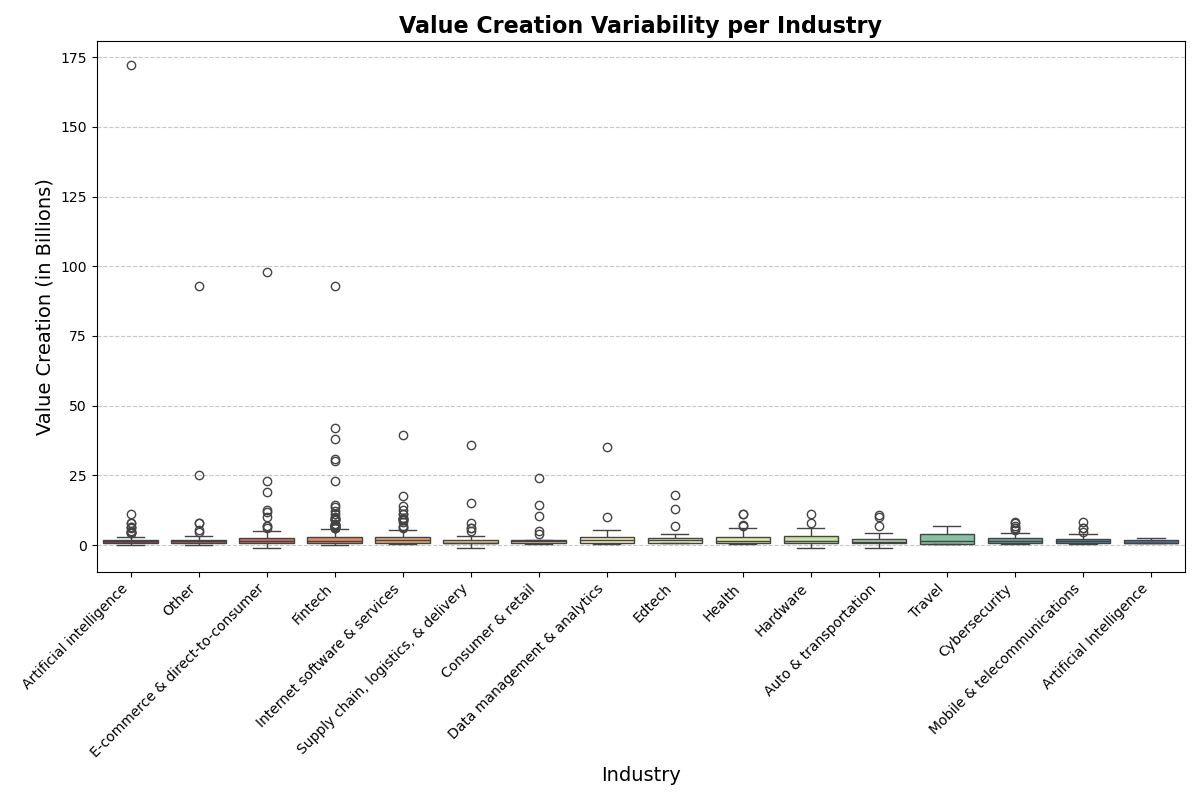
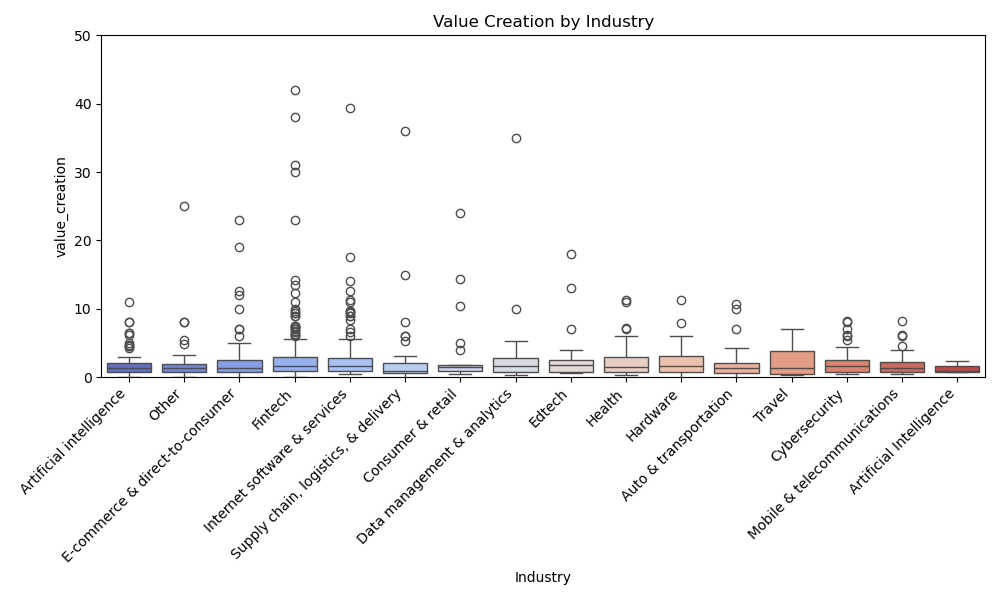
yay

diff --git a/lib.py b/lib.py
@@ -92,6 +92,7 @@ def plot_value_creation_by_industry(df, save_directory):
 
     plt.figure(figsize=(10, 6))
     sns.boxplot(x="Industry", y="value_creation", data=df_pandas, palette="coolwarm")
+    plt.ylim(0, 50)
     plt.xticks(rotation=45, ha="right")
     plt.title("Value Creation by Industry")
     plt.tight_layout()
